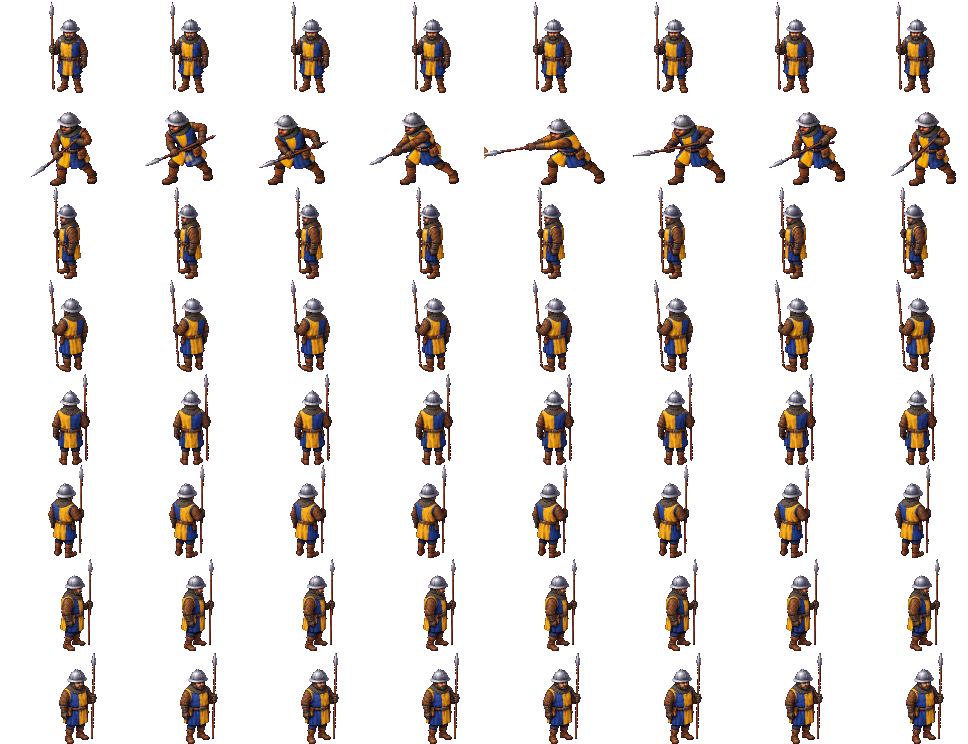
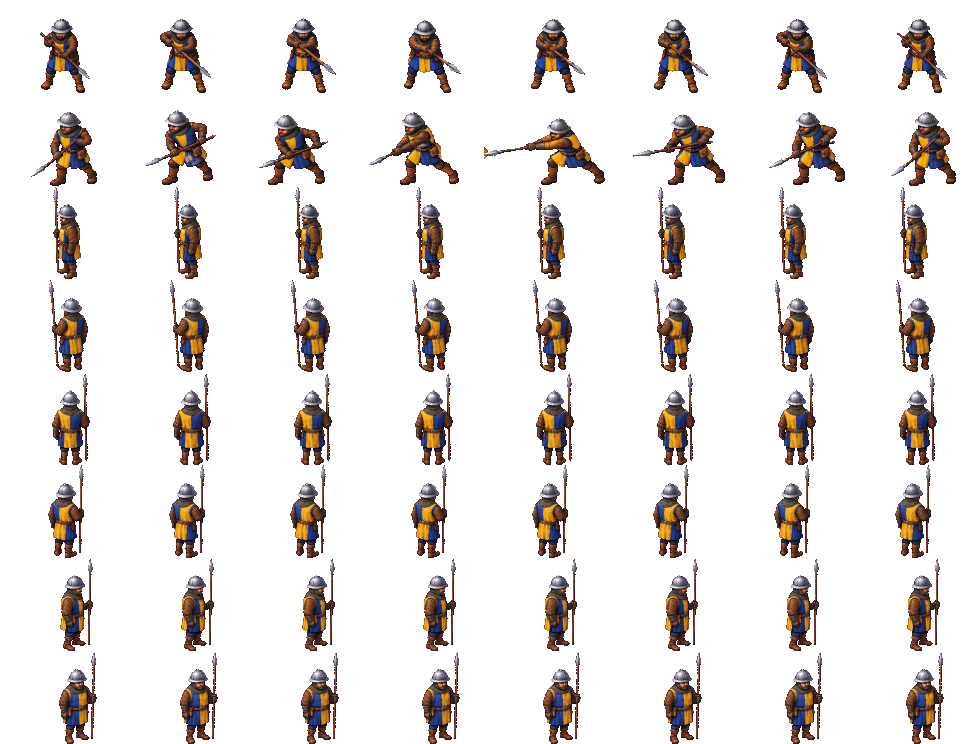
Aanvallen Z van de speerman, voorlopig: zijn lijf naar het zuiden, de speer schuin naar rechtsonder
Na de redo blijft de speer op één lijn en steekt hij leesbaar (13 pixels op spelmaat), beter dan stilstaan. Maar de punt
wijst zo'n 45 graden naar rechtsonder, half naar ZO (Marcel: "Maar is dit nu echt Zuid?"); Marcel probeert een steilere
hoek, en dan vervangt die vel 10.

diff --git a/ontwerp/beelden-van-de-generator.md b/ontwerp/beelden-van-de-generator.md
@@ -287,6 +287,19 @@ generator van 1,7 MB; op spelmaat is het verschil ruis) en lopen in het spel. Wa
   list. Always use the attached sheets as the reference for the character, the style and the scale, so he stays exactly
   the same." De regels mat, geen klinknagels en geen sjerp staan sindsdien ook in de masterprompt hierboven. Het werkte:
   vel 9 kwam daarna als dezelfde man, mat en met baard (Marcel: "Deze lijkt goed te werken").
+- **Vel 10, aanvallen Z** (21 okt): eerst wisselde de speer drie keer van kant en stak hij recht naar beneden (op
+  spelmaat leek het zwaaien en in de grond prikken). Recht naar de kijker steken is van voren lastig; met deze redo werd
+  het leesbaar: "redo 10: Attacking S, with one clear thrust towards the viewer. The spear stays on one straight diagonal
+  line in all 8 frames: the butt behind his right hip (on the left of the sheet), the spearhead in front of him,
+  pointing down and to the right of the sheet, towards the viewer, so the whole spear stays visible. Both hands on the
+  shaft in every frame. The spear never swaps to the other side, never turns around, never points up, and never points
+  straight down into the ground. Frames: 1 ready, 2 drawing the spear back along the line, 3 thrusting forward, 4 full
+  extension (arms stretched, the spearhead far forward), 5 holding, 6 pulling back, 7 recovering, 8 exactly the same as
+  frame 1, so it loops." De punt gaat op spelmaat 13 pixels vooruit en blijft aan het eind uitgestoken; na de klap
+  staat hij weer. Maar (Marcel: "Maar is dit nu echt Zuid?"): zijn lijf staat naar het zuiden, de speer wijst zo'n 45
+  graden naar rechtsonder, half naar ZO. Voorlopig in het spel; Marcel probeert een steilere hoek ("about 20 degrees
+  from straight down", de punt laag voor zijn voeten). Bij N (vel 14), van achteren, speelt hetzelfde: dan de punt
+  omhoog, van de kijker af.
 
 ## De inventaris
 

diff --git a/ontwerp/werklijst.md b/ontwerp/werklijst.md
@@ -32,7 +32,7 @@ de pijplijn van vraag 180 (Q, f; niet in de cloud). **Bezig in sessie `lokaal-da
 **nieuwe weg** (Marcel, 21 okt: "Ok, dan zullen we moeten inventariseren welke gebouwen en poppetjes we nodig hebben. Dan
 kunnen we de andere generator deze 1 voor 1 laten maken. Jij moet dan zorgen dat ze passend worden in het spel"): de
 generator van zijn plaat maakt de bron, wij maken het passend; eerst de inventaris (`beelden-van-de-generator.md`). De
-speerman staat en loopt in het spel in acht richtingen (21 okt, de masterprompt); **wacht op Marcel**: vel 10 tot 25 (in
+speerman staat en loopt in het spel in acht richtingen (21 okt, de masterprompt); aanvallen Z staat erin; **wacht op Marcel**: vel 11 tot 25 (in
 het nieuwe gesprek, `beelden-van-de-generator.md`), en eventueel 3 en 4 opnieuw (de punt naar achteren).
 
 **Marcels acht punten van 20 okt** (R, vraag 182 tot 189: egaliseren met de schop, de maat van de huizen, dragers, een
